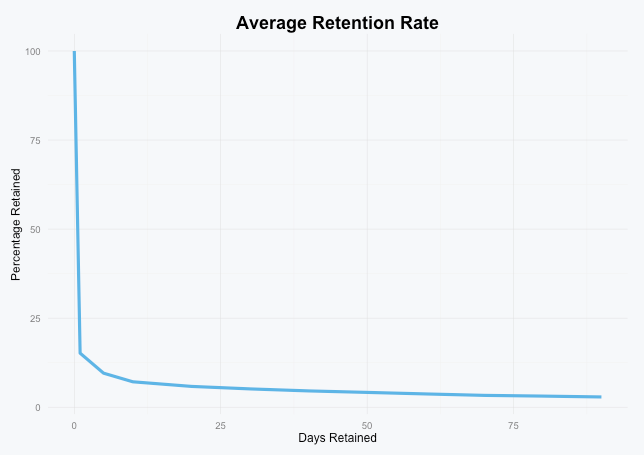
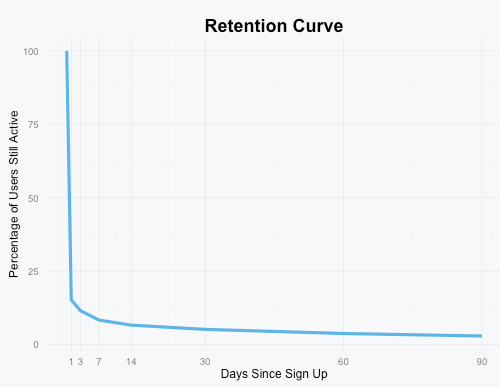
Update script to support on or on-or-after calculation methods

diff --git a/README.md b/README.md
@@ -68,17 +68,15 @@ If you'd prefer to see the average retention rate across all of the cohorts, you
 
 ![retention chart by month](images/test-data-average.png)
 
-For any of these you can also adjust which days to analyze retention for by supplying a `days` argument like so (the default is 1, 5, 10, 20, 30, 40, 50, 60, 70, 80, and 90 days after the user was first seen):
+By default, a user counts as retained if they were active _on or after_ a specific date (the `method` argument is set to `on-or-after` by default). If you'd prefer users only count as retained if they were active _on_ a specific date, set `method = "on"`:
 
-`AnalyzeRetention("data/test-data.csv", cohort.units = "months", days = c(10, 20, 30))`
-
-![retention data adjusted cohorts](images/test-data-10-20-30.png)
+`AnalyzeRetention("data/test-data.csv", cohort.units = "months", method = "on")`
 
 You can also adjust the minimum number of users required for a chort to be plotted (the default is 20):
 
 `AnalyzeRetention("data/test-data.csv", cohort.units = "months", min.cohort.users = 50)`
 
-And hide the legend setting the `show.legend` argument to `FALSE` (default is `TRUE`):
+You can hide the legend setting the `show.legend` argument to `FALSE` (default is `TRUE`):
 
 `AnalyzeRetention("data/test-data.csv", cohort.units = "months", show.legend = FALSE)`
 
